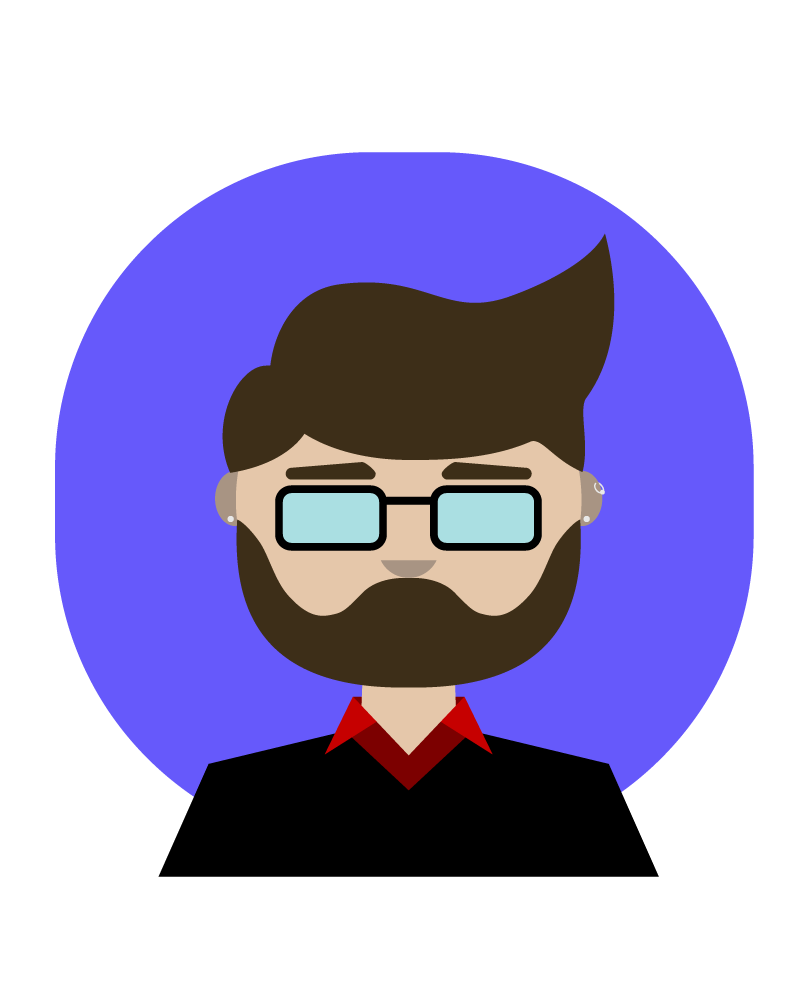
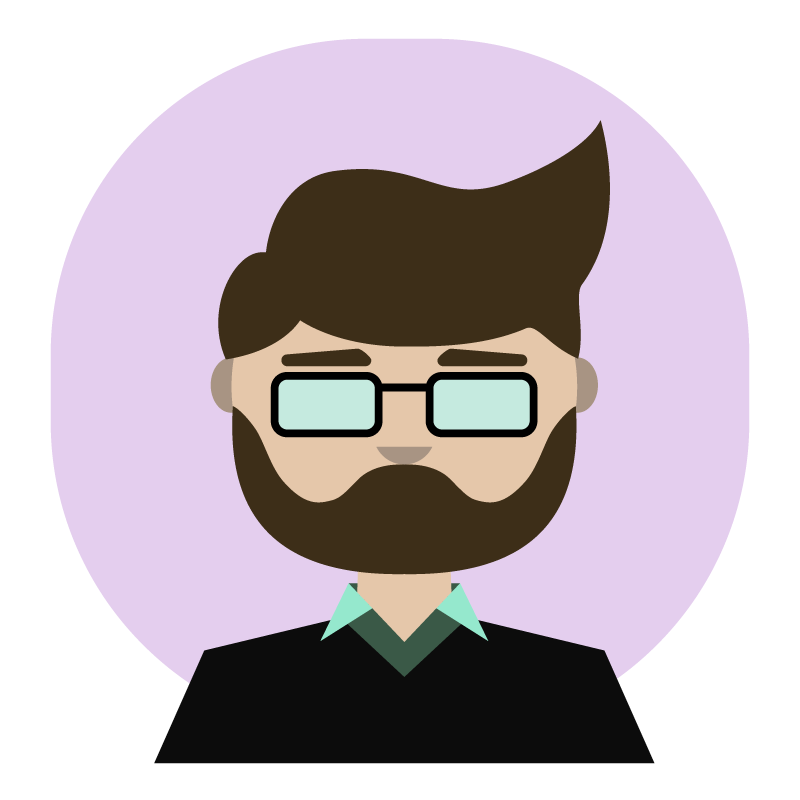
Some general landing page style and design updates

diff --git a/src/styles/components/_body.scss b/src/styles/components/_body.scss
@@ -46,13 +46,14 @@ svg {
 
 #welcome-section {
     height: calc(100vh - 2.0rem);
+    display: flex;
 
-    img {
+    /*img {
         width: 100%;
         max-width: 400px;
         margin: auto;
         display: none;//block;
-    }
+    }*/
 }
 
 #welcome-article {    
@@ -78,14 +79,13 @@ svg {
     }
 
     #landing-wrapper #welcome-section {
-        display: flex;
-        flex-direction: row-reverse;
+        //flex-direction: row-reverse;
     
-        img {
+        /*img {
             width: 60vw;
             max-width: 400px;
             object-fit: contain;
-        }
+        }*/
     }
 
     #landing-wrapper section {
@@ -94,36 +94,28 @@ svg {
     }
 }
 
-@media (min-width: 920px) {
+@media (min-width: 520px) {
     #landing-wrapper {
         margin-bottom: 0px;
         #welcome-section {
             div {
                 position: absolute;
+                height: 70%;
+                width: 90%;
+                border: 4px solid;
+                left: 5%;
+                top: 15%;
             }
             .bubble-one {
-                height: 400px;
-                width: 400px;
-                border-radius: 200px;
-                background-color: $color-main;
-                left: -300px;
-                top: 100px;
+                border-color: $color-tertiary;
+                transform: rotate(-2deg);
             }
             .bubble-two {
-                height: 300px;
-                width: 300px;
-                border-radius: 150px;
-                background-color: $color-secondary;
-                left: 100px;
-                top: 500px;
+                border-color: $color-secondary;
+                transform: rotate(2deg);
             }
             .bubble-three {
-                height: 200px;
-                width: 200px;
-                border-radius: 100px;
-                background-color: $color-tertiary;
-                left: 400px;
-                top: 300px;
+                border-color: $color-main;
             }
         }
     }

diff --git a/src/styles/components/_projectList.scss b/src/styles/components/_projectList.scss
@@ -8,7 +8,7 @@
         //position: relative;
         //x-offset y-ofset blur spread color
         box-shadow: 0px 0px 0px 3px white,
-                    0px 0px 0px 5px #222222;
+                    0px 0px 0px 5px $color-tertiary;
         margin: 2rem auto;
         object-fit: scale-down;
         width: calc(100% + 2.0rem - 10px);
@@ -18,6 +18,25 @@
 
     .project-div {
         padding: 1.5rem 0;
+        position: relative;
+
+        .project-bg-div-two {
+            height: 78%;
+            width: 75%;
+            background-color: $color-main;
+            position: absolute;
+            top: 5%;
+            left: 5%;
+        }
+
+        .project-bg-div-one {
+            height: 50%;
+            width: 30%;
+            background-color: $color-secondary;
+            position: absolute;
+            right: 5%;
+            top: 50%;
+        }
 
         a {
             margin: 1rem auto;

diff --git a/src/components/Home.js b/src/components/Home.js
@@ -2,7 +2,6 @@ import Nav from '../components/Nav';
 import Contact from '../components/Contact';
 import ProjectList from '../components/ProjectList';
 import { about } from '../data/about';
-import backgroundWave from '../images/backgroundWave.png';
 import introImage from '../images/introImage.png';
 import aboutImage from '../images/introImage.png';
 
@@ -15,7 +14,7 @@ const Home = () => {
                     <div class="bubble-one" />
                     <div class="bubble-two" />
                     <div class="bubble-three" />
-                    <img src={introImage} alt="illustration of the developer" />
+                    {/*<img src={introImage} alt="illustration of the developer" />*/}
                     <article id="welcome-article">
                         <h1>{about[0].welcome}</h1>
                         <p>{about[0].intro}</p>

diff --git a/src/components/ProjectList.js b/src/components/ProjectList.js
@@ -10,6 +10,8 @@ const ProjectList = () => {
             {projectList.map((project) => {
                 return (
                     <div className="project-div" key={project.id}>
+                        <div className="project-bg-div-one"></div>
+                        <div className="project-bg-div-two"></div>
                         <img src={project.screenshotURL} alt="Screenshot of the project" />
                         <article className="project-info">
                             <h2>{project.project}</h2>

diff --git a/src/styles/base/_variables.scss b/src/styles/base/_variables.scss
@@ -7,8 +7,8 @@ $gradient-background: linear-gradient(180deg, $color-bg-blue 0%, $color-bg-pink 
 $color-font-black: #000000;
 $color-font-white: #ffffff;
 
-$color-main: #F3DFF5;
-$color-secondary: #DBF8F1;
+$color-main: #E4CEEE;
+$color-secondary: #C5EADF;
 $color-tertiary: #7F868A;
 
 // Fonts
